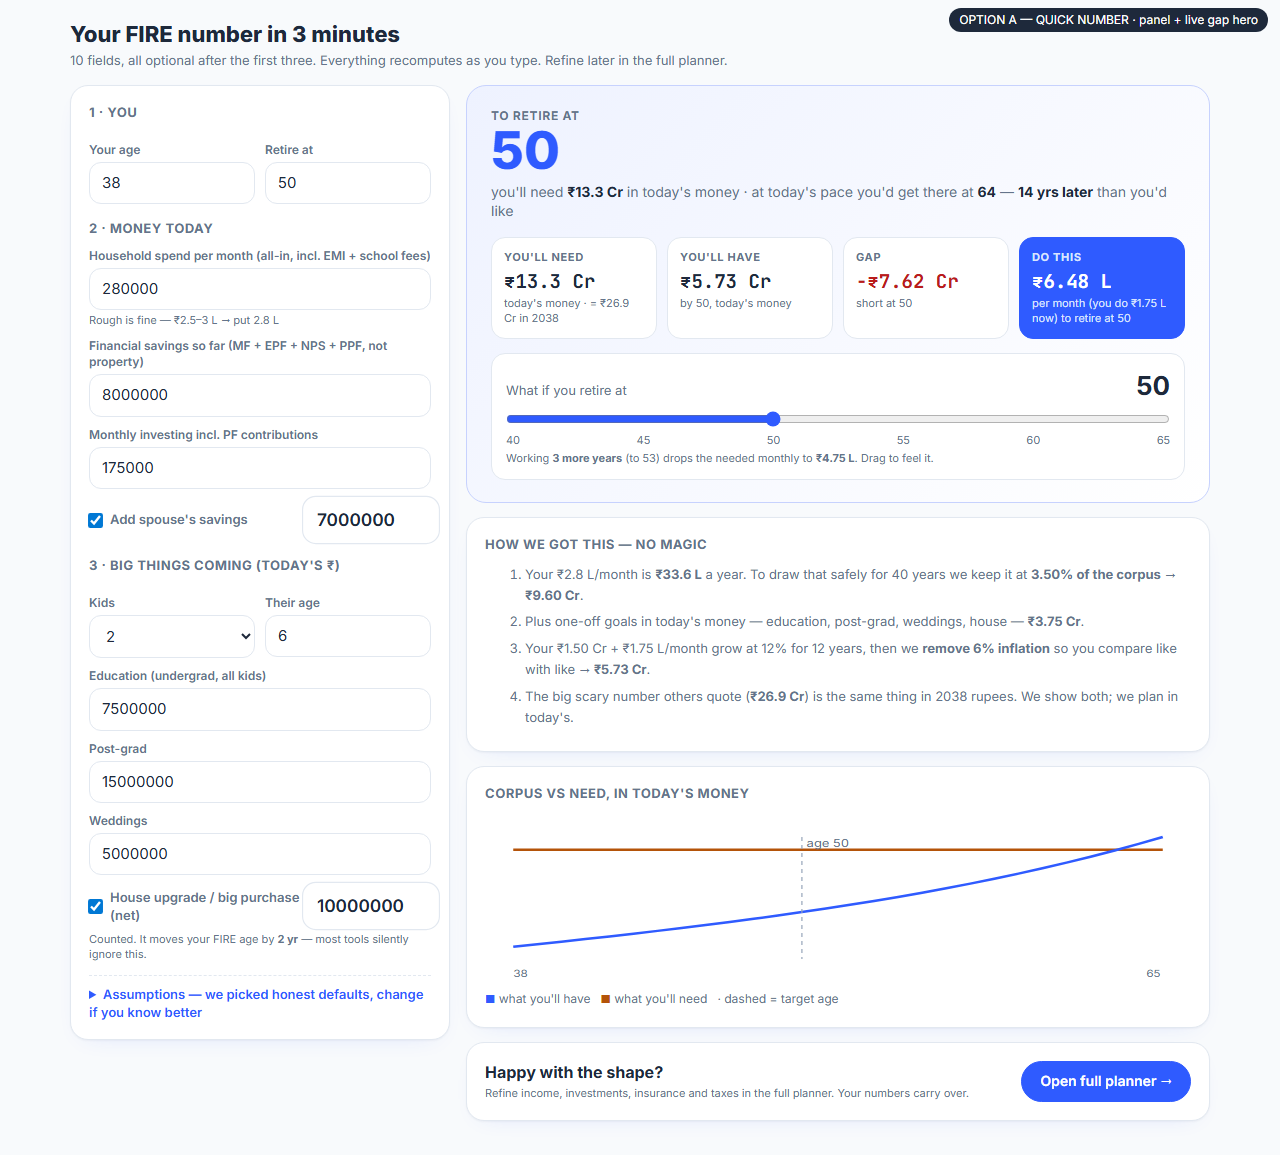
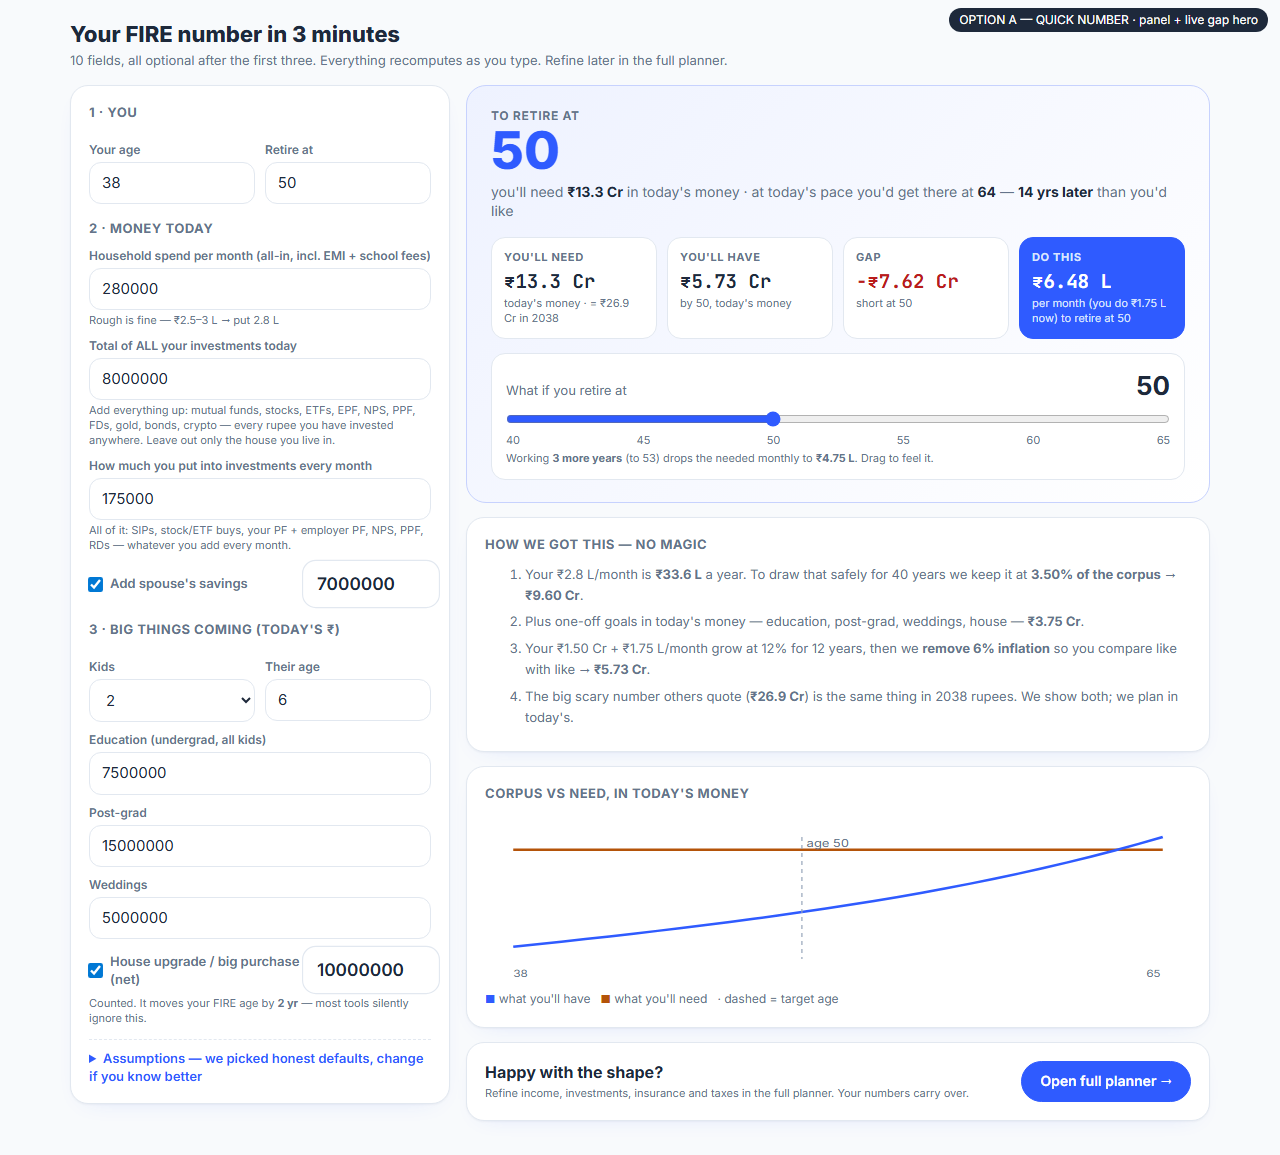
docs(design): 'Financial savings' → 'Total of ALL your investments' (stocks/ETFs/gold/crypto named; only the home excluded) — owner mis-entered during test
Same fix on the monthly-investing question (stock/ETF buys were not mentioned). Applied to options A, B, C.

Claude-Session: https://claude.ai/code/session_01PiqGZ8w4L1igPHy7bza2SS

Changed region(s): [[0.0625, 0.2805, 0.3438, 0.9351]]

diff --git a/docs/design/2026-08-27-quick-number-gap-hero/option-c-merged.html b/docs/design/2026-08-27-quick-number-gap-hero/option-c-merged.html
@@ -57,8 +57,8 @@ const Q=[
  {k:"age",q:"How old are you?",h:"We plan from today to age 90 — 40 years of spending, not 15.",type:"num"},
  {k:"targetAge",q:"When would you like to stop working?",h:"A guess is fine — you'll drag this on the next screen.",type:"chips",opts:[45,50,55,60]},
  {k:"spend",q:"What does your household spend in a month?",h:"Everything — EMI, school fees, travel, help. ₹2.5–3 L? Say 2.8.",lakh:true},
- {k:"corpus",q:"Financial savings so far?",h:"Mutual funds + EPF + NPS + PPF + FDs. Not the house you live in.",lakh:true},
- {k:"sip",q:"How much do you invest every month?",h:"SIPs plus your and your employer's PF, all together.",lakh:true},
+ {k:"corpus",q:"Total of ALL your investments today?",h:"Add everything up: mutual funds, stocks, ETFs, EPF, NPS, PPF, FDs, gold, bonds, crypto — every rupee you have invested anywhere. Leave out only the house you live in.",lakh:true},
+ {k:"sip",q:"How much do you put into investments every month?",h:"All of it: SIPs, stock/ETF buys, your PF + employer PF, NPS, PPF, RDs — whatever you add every month.",lakh:true},
  {k:"spouseCorpus",q:"Spouse's savings, if any?",h:"Their MF + PF. Untick if not applicable.",lakh:true,toggle:"includeSpouse"},
  {k:"kids",q:"Kids?",h:"How many, and roughly how old?",type:"chips",opts:[0,1,2,3],extra:{k:"kidsAge",label:"Their age",plain:true}},
  {k:"education",q:"Their education, in today's money?",h:"Undergrad for all kids. Abroad? ₹75 L+ combined.",lakh:true,extra:{k:"postgrad",label:"Post-grad, if any (₹ lakh)"}},
@@ -106,7 +106,7 @@ function render(){
     `The scary number others quote (<b>${FK.inr(r.needNominal)}</b>) is the same thing in ${yr+r.n} rupees. We show both and plan in today's.`
   ].map(t=>`<li>${t}</li>`).join("");
   $("assump").textContent=`${+(i.inflation*100).toFixed(1)}% inflation · ${+(i.equityReturn*100).toFixed(1)}% return · ${+(i.swr*100).toFixed(2)}% safe withdrawal · investing raised ${+(i.stepUp*100).toFixed(0)}%/yr`;
-  $("rows").innerHTML=[["Age",i.age],["Spend / month",FK.inr(i.spend)],["Savings",FK.inr(i.corpus)],["Spouse savings",i.includeSpouse?FK.inr(i.spouseCorpus):"—"],["Investing / month",FK.inr(i.sip)],["Kids",`${i.kids} · age ${i.kidsAge}`],["Education",FK.inr(i.education)],["Post-grad",FK.inr(i.postgrad)],["Weddings",FK.inr(i.wedding)],["Big purchase",i.includeHouse?FK.inr(i.house):"—"]].map(([k,v])=>`<span>${k}</span><b>${v}</b>`).join("");
+  $("rows").innerHTML=[["Age",i.age],["Spend / month",FK.inr(i.spend)],["All investments",FK.inr(i.corpus)],["Spouse savings",i.includeSpouse?FK.inr(i.spouseCorpus):"—"],["Investing / month",FK.inr(i.sip)],["Kids",`${i.kids} · age ${i.kidsAge}`],["Education",FK.inr(i.education)],["Post-grad",FK.inr(i.postgrad)],["Weddings",FK.inr(i.wedding)],["Big purchase",i.includeHouse?FK.inr(i.house):"—"]].map(([k,v])=>`<span>${k}</span><b>${v}</b>`).join("");
   chart(r);
 }
 function chart(r){

diff --git a/docs/design/2026-08-27-quick-number-gap-hero/option-b-conversational.html b/docs/design/2026-08-27-quick-number-gap-hero/option-b-conversational.html
@@ -19,8 +19,8 @@ const Q=[
  {k:"age",q:"How old are you?",h:"We plan from today to age 90.",type:"num"},
  {k:"targetAge",q:"When would you like to stop working?",h:"A guess is fine — you'll get to drag this later.",type:"chips",opts:[45,50,55,60]},
  {k:"spend",q:"What does your household spend in a month?",h:"Everything — rent/EMI, school fees, travel, help. ₹2.5–3 L? Say 2.8 L.",type:"num",unit:"L"},
- {k:"corpus",q:"Financial savings so far?",h:"Mutual funds + EPF + NPS + PPF + FDs. Not the house you live in.",type:"num",unit:"L"},
- {k:"sip",q:"How much do you invest every month?",h:"SIPs + your and employer's PF, all together.",type:"num",unit:"L"},
+ {k:"corpus",q:"Total of ALL your investments today?",h:"Add everything up: mutual funds, stocks, ETFs, EPF, NPS, PPF, FDs, gold, bonds, crypto — every rupee you have invested anywhere. Leave out only the house you live in.",type:"num",unit:"L"},
+ {k:"sip",q:"How much do you put into investments every month?",h:"All of it: SIPs, stock/ETF buys, your PF + employer PF, NPS, PPF, RDs — whatever you add every month.",type:"num",unit:"L"},
  {k:"spouseCorpus",q:"Spouse's savings, if any?",h:"Their MF + PF. Skip if not applicable.",type:"num",unit:"L",toggle:"includeSpouse"},
  {k:"kids",q:"Kids?",h:"How many, and roughly how old?",type:"chips",opts:[0,1,2,3],extra:{k:"kidsAge",label:"Their age"}},
  {k:"education",q:"What will their education cost, in today's money?",h:"Undergrad for all kids. Studying abroad? ₹75 L+ combined.",type:"num",unit:"L",extra:{k:"postgrad",label:"Post-grad, if any (₹)"}},

diff --git a/docs/design/2026-08-27-quick-number-gap-hero/option-a-quick-number-panel.html b/docs/design/2026-08-27-quick-number-gap-hero/option-a-quick-number-panel.html
@@ -17,10 +17,10 @@
   <h3 style="margin-top:16px">2 · Money today</h3>
   <label>Household spend per month (all-in, incl. EMI + school fees)</label>
   <input type="number" id="spend" value="280000"><div class="hint">Rough is fine — ₹2.5–3 L → put 2.8 L</div>
-  <label>Financial savings so far (MF + EPF + NPS + PPF, not property)</label>
-  <input type="number" id="corpus" value="8000000">
-  <label>Monthly investing incl. PF contributions</label>
-  <input type="number" id="sip" value="175000">
+  <label>Total of ALL your investments today</label>
+  <input type="number" id="corpus" value="8000000"><div class="hint">Add everything up: mutual funds, stocks, ETFs, EPF, NPS, PPF, FDs, gold, bonds, crypto — every rupee you have invested anywhere. Leave out only the house you live in.</div>
+  <label>How much you put into investments every month</label>
+  <input type="number" id="sip" value="175000"><div class="hint">All of it: SIPs, stock/ETF buys, your PF + employer PF, NPS, PPF, RDs — whatever you add every month.</div>
   <label class="toggle"><input type="checkbox" id="includeSpouse" checked> Add spouse's savings <input type="number" id="spouseCorpus" value="7000000" style="width:120px;margin-left:auto"></label>
 
   <h3 style="margin-top:16px">3 · Big things coming (today's ₹)</h3>
